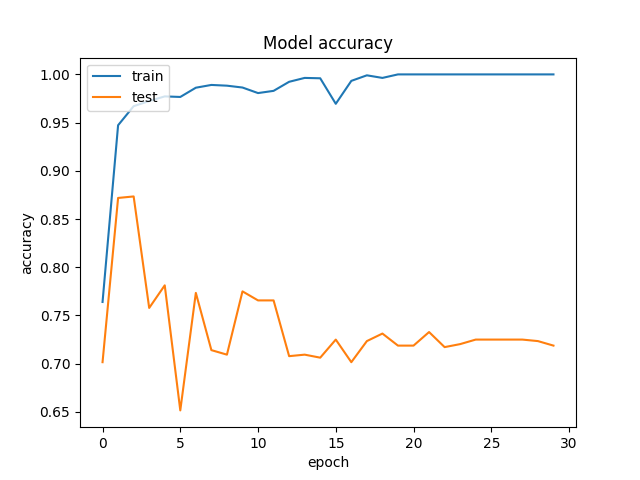
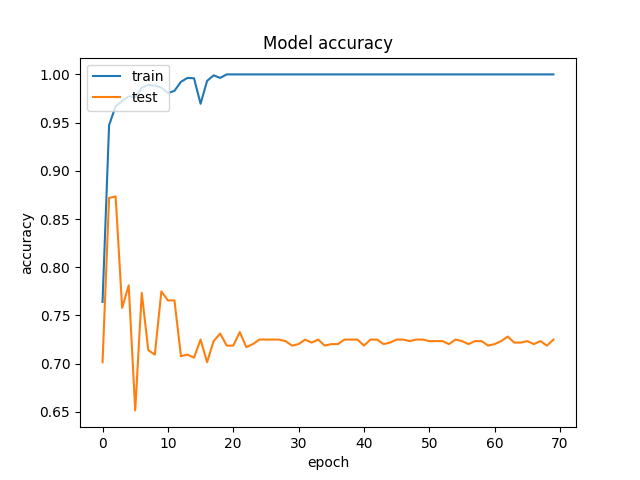
updates overnight

diff --git a/src/hyperparams.py b/src/hyperparams.py
@@ -10,12 +10,12 @@ neural network.
 import datetime as dt
 
 save_model      = True
-single_input    = False
-iter_num        = '16'
+single_input    = True
+iter_num        = '17'
 val_split       = 0.1
-iter_tag        = 'alldatasingleout_singledataset'
+iter_tag        = 'alldatasingleout_split'
 iteration       = iter_num + '_' + iter_tag
-epochs          = 250
+epochs          = 100
 target_w        = 300
 target_h        = target_w
 title           = dt.datetime.now().strftime("%Y-%m-%d_%H:%M") + \
